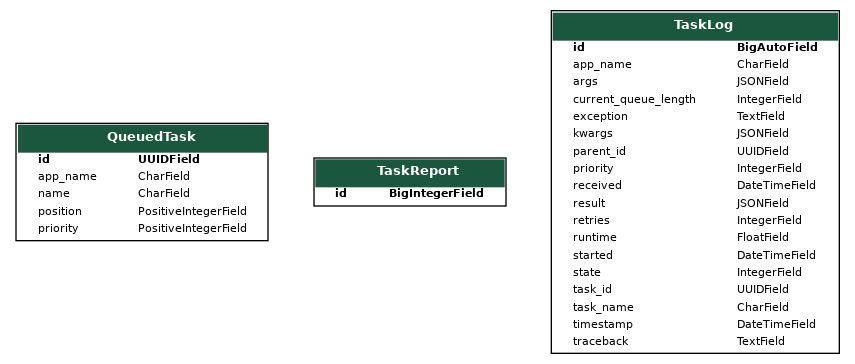
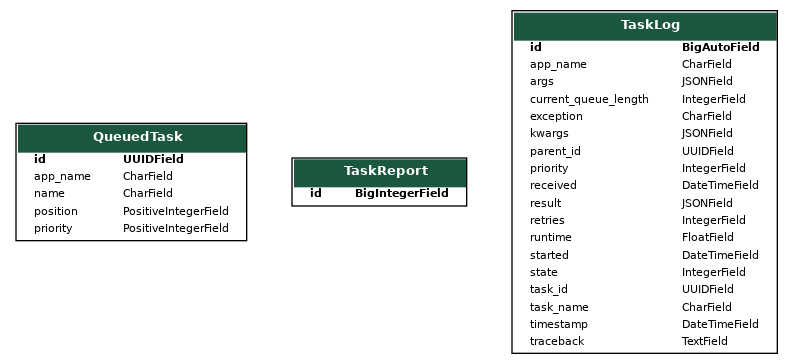
Delete tasks with higher priority

diff --git a/taskmonitor/tasks.py b/taskmonitor/tasks.py
@@ -20,7 +20,7 @@ DEFAULT_TASK_PRIORITY = 4
 @shared_task(base=QueueOnce)
 def run_housekeeping():
     """Run all housekeeping tasks."""
-    delete_stale_tasklogs.apply_async(priority=7)
+    delete_stale_tasklogs.apply_async(priority=DEFAULT_TASK_PRIORITY)
     refresh_reports_cache.apply_async(priority=DEFAULT_TASK_PRIORITY)
 
 
